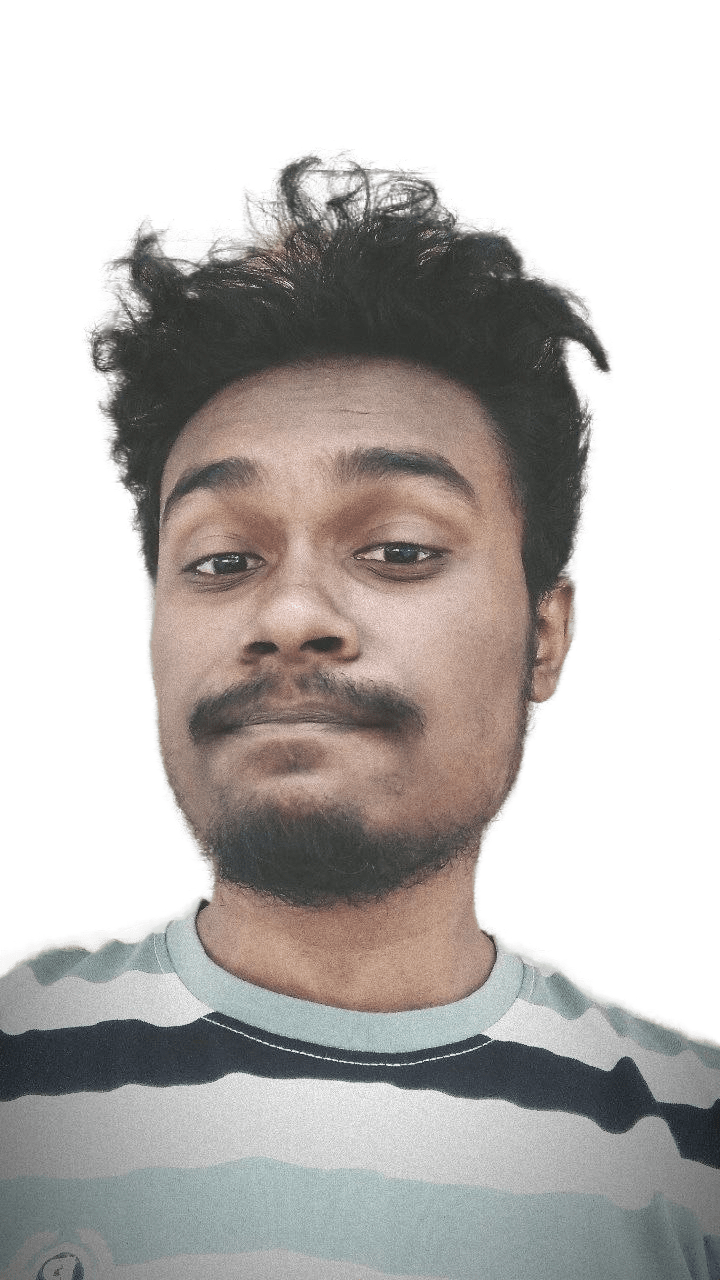
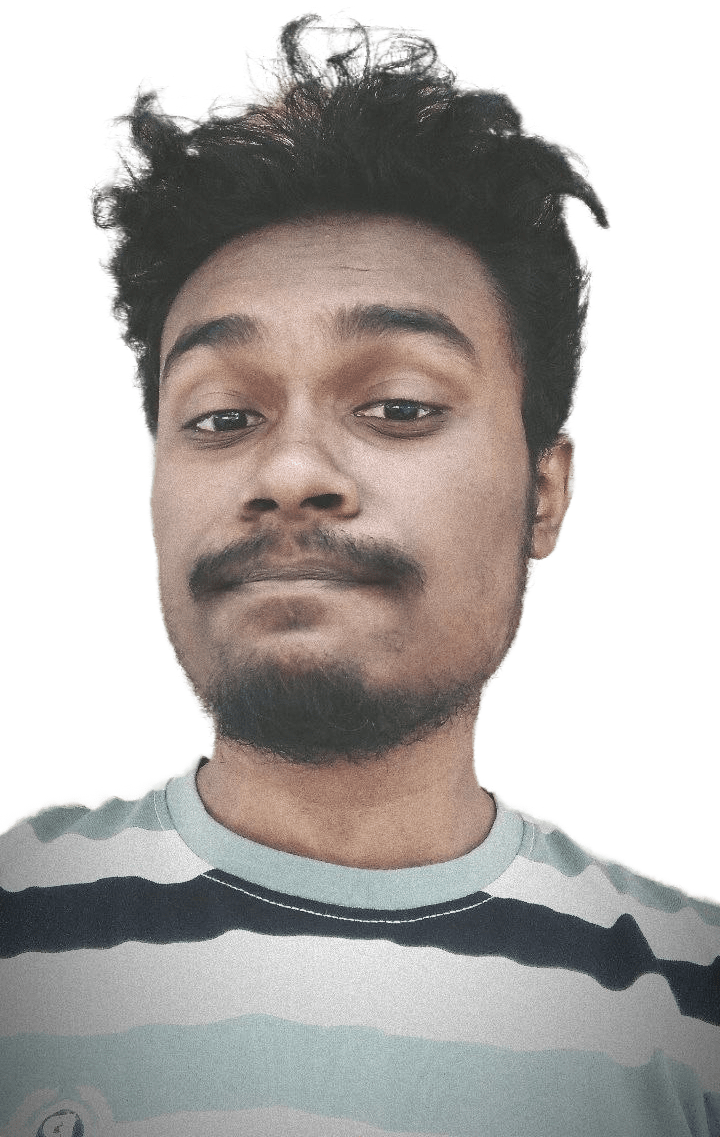
Flex issue fixed 2

diff --git a/style.css b/style.css
@@ -175,6 +175,7 @@ header{
 }
 .hero{
   display: flex;
+  /* align-items: center; */
   .cover-txt{
     flex: 1;
     padding: 30px;
@@ -201,14 +202,14 @@ header{
   }
   .cover-img{
     flex: 1;
-    padding: 0 30px;
+    padding: 0 10px;
     display: flex;
     justify-content: center;
-    margin-top: -70px;
+    margin-top: -30px;
     img{
-      height: 450px;
-      margin-top: -60px;
-      margin-bottom: -30px;
+      height: 400px;
+      margin-top: -25px;
+      margin-bottom: -20px;
       max-width: 420px;
       border-radius: 50vh;
     }

diff --git a/index.html b/index.html
@@ -51,6 +51,7 @@
               <a href="#"><img src="https://img.icons8.com/?size=100&id=446&format=png&color=000000" alt="linkedin" width="30px"></a>
               <a href="#"><img src="https://img.icons8.com/?size=100&id=59813&format=png&color=000000" alt="instagram" width="30px"></a>
             </div>
+          </div>
           <div class="cover-img">
             <img src="./asset/profile.png" alt="Navin's picture">
           </div>
